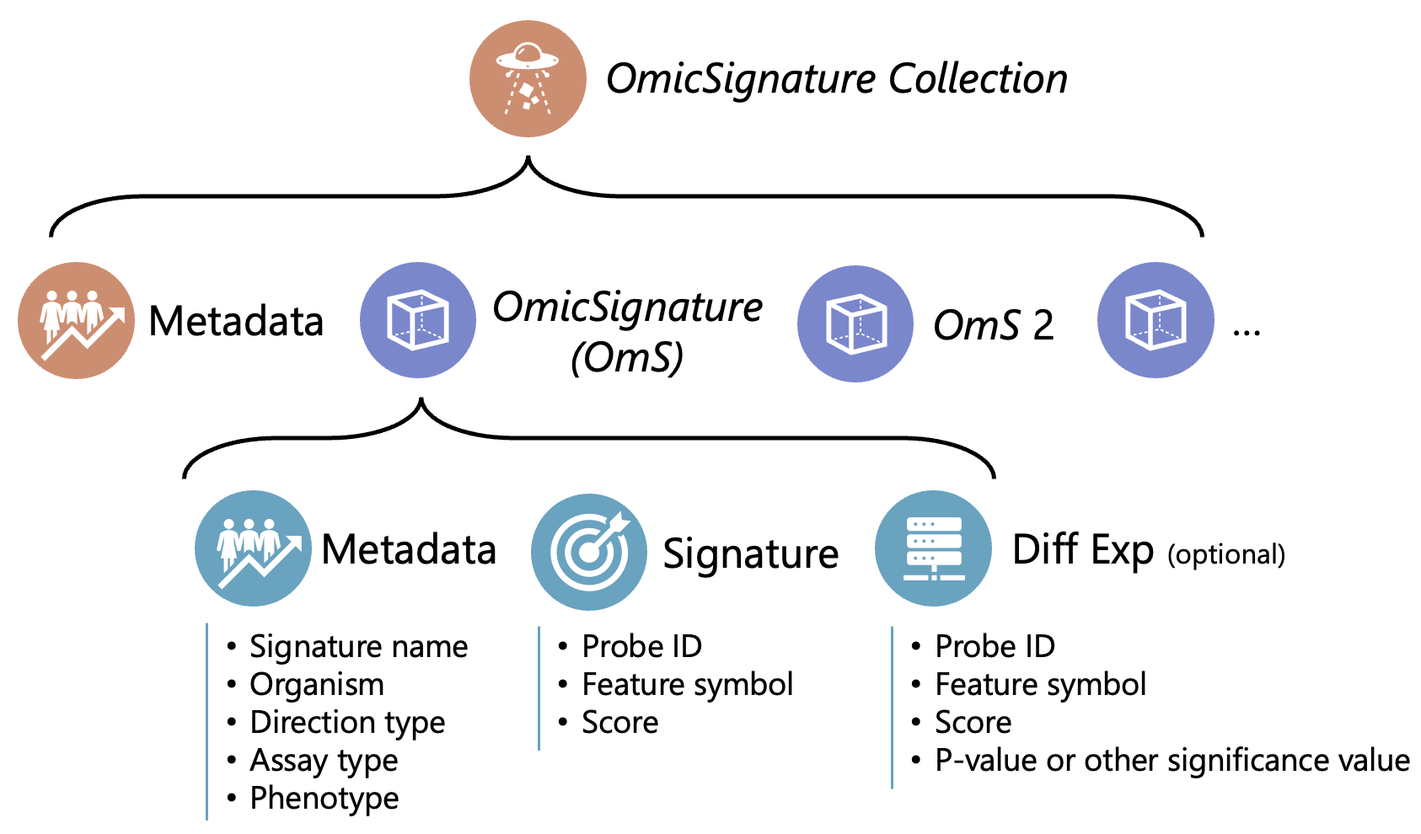
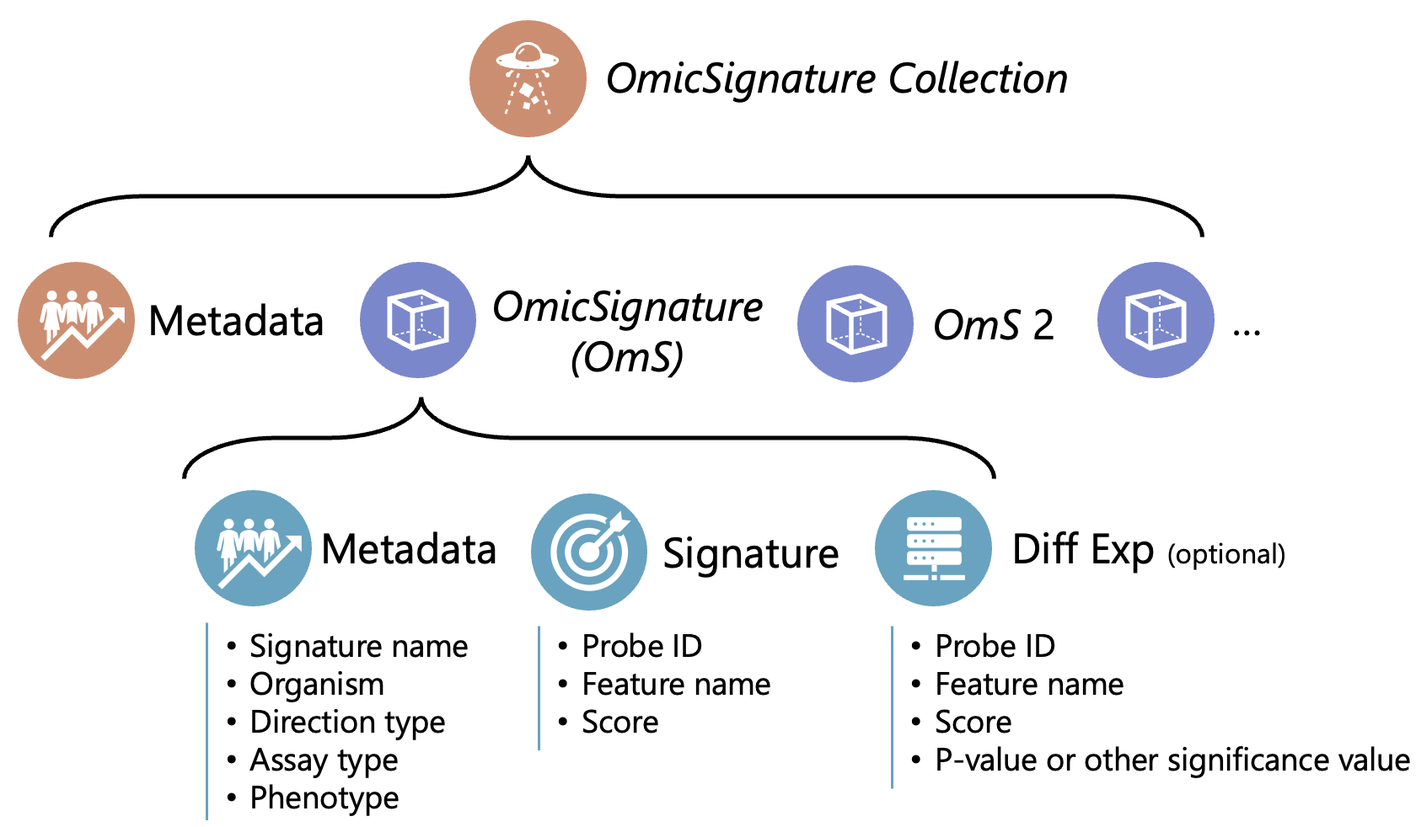
Deploying to gh-pages from @ montilab/OmicSignature@e3b354db4efc41832d84527b8e12ee6c4c1e382d 🚀

diff --git a/articles/CreateOmS.html b/articles/CreateOmS.html
@@ -120,7 +120,7 @@ Recommended optional fields, if applicable:<br>
 <li><p><strong>signature</strong>, a data frame.<br>
 Required columns:<br>
 “<strong>probe_id</strong>” (unique identifier for each feature)<br>
-“<strong>feature_symbol</strong>” (e.g. ENSEMBL ID, Uniprot ID)<br>
+“<strong>feature_name</strong>” (e.g. ENSEMBL ID, Uniprot ID)<br>
 Required for bi-directional and categorical signatures:
 “<strong>direction</strong>”<br>
 Recommended optional column, if applicable: “score”<br></p></li>
@@ -128,7 +128,7 @@ Recommended optional column, if applicable: “score”<br></p></li>
 expression analysis results.<br>
 Required columns:<br>
 “<strong>probe_id</strong>” (unique identifier for each feature)<br>
-“<strong>feature_symbol</strong>” (e.g. ENSEMBL ID, Uniprot ID)<br>
+“<strong>feature_name</strong>” (e.g. ENSEMBL ID, Uniprot ID)<br>
 Require at least one of the following: “<strong>p_value</strong>”,
 “<strong>q_value</strong>”, or “<strong>adj_p</strong>”.<br>
 Recommended optional column, if applicable: “score”, “gene_symbol”,
@@ -265,18 +265,18 @@ ANOVA.<br></p></li>
 downstream signature extraction.<br></p>
 <p><code>difexp</code> is a dataframe with the following
 <strong>required</strong> columns:<br>
-“<strong>probe_id</strong>”, “<strong>feature_symbol</strong>”, along
-with at least one of the following: “<strong>p_value</strong>”,
+“<strong>probe_id</strong>”, “<strong>feature_name</strong>”, along with
+at least one of the following: “<strong>p_value</strong>”,
 “<strong>q_value</strong>”, or “<strong>adj_p</strong>”.<br></p>
 <p>“<strong>probe_id</strong>” is a unique identifier for each feature.
 If not provided, it will be automatically generated. Common examples
 include unique numbers and probe IDs.<br>
-“<strong>feature_symbol</strong>” is a name that identifies each
-feature, examples include ENSEMBL IDs, UniProt IDs, and Refmet IDs. To
-better identify the features, it is recommended to add an additional
-annotation column(s), e.g., “hgnc_symbol”. For metabolite features, it
-is recommended to include multiple annotation columns is available,
-e.g., HMDB ID and InChI key.<br>
+“<strong>feature_name</strong>” is a name that identifies each feature,
+examples include ENSEMBL IDs, UniProt IDs, and Refmet IDs. To better
+identify the features, it is recommended to add an additional annotation
+column(s), e.g., “hgnc_symbol”. For metabolite features, it is
+recommended to include multiple annotation columns is available, e.g.,
+HMDB ID and InChI key.<br>
 “<strong>p_value</strong>”, “<strong>q_value</strong>”, or
 “<strong>adj_p</strong>” refers to the p- or q-value representing the
 significance of each feature.<br>
@@ -291,7 +291,7 @@ analysis using the <code>limma</code> package.</p>
 <span><span class="co"># )</span></span>
 <span><span class="va">difexp</span> <span class="op">&lt;-</span> <span class="fu"><a href="https://rdrr.io/r/base/readRDS.html" class="external-link">readRDS</a></span><span class="op">(</span><span class="fu"><a href="https://rdrr.io/r/base/file.path.html" class="external-link">file.path</a></span><span class="op">(</span><span class="fu"><a href="https://rdrr.io/r/base/system.file.html" class="external-link">system.file</a></span><span class="op">(</span><span class="st">"extdata"</span>, package <span class="op">=</span> <span class="st">"OmicSignature"</span><span class="op">)</span>, <span class="st">"difmatrix_Myc_mice_liver_24m.rds"</span><span class="op">)</span><span class="op">)</span></span>
 <span><span class="fu"><a href="https://rdrr.io/r/utils/head.html" class="external-link">head</a></span><span class="op">(</span><span class="va">difexp</span><span class="op">)</span></span>
-<span><span class="co">#&gt;   Probe.ID  logFC AveExpr      t P.Value adj.P.Val      b     feature_symbol</span></span>
+<span><span class="co">#&gt;   Probe.ID  logFC AveExpr      t P.Value adj.P.Val      b            ensembl</span></span>
 <span><span class="co">#&gt; 1 10345228 -0.167   7.106 -1.470   0.186     0.560 -5.866 ENSMUSG00000103746</span></span>
 <span><span class="co">#&gt; 2 10354534  0.041   4.351  0.520   0.620     0.870 -6.780 ENSMUSG00000060715</span></span>
 <span><span class="co">#&gt; 3 10354529 -0.175   4.955 -0.941   0.379     0.731 -6.458 ENSMUSG00000043629</span></span>
@@ -305,17 +305,14 @@ analysis using the <code>limma</code> package.</p>
 <span><span class="co">#&gt; 4 1700066M21Rik</span></span>
 <span><span class="co">#&gt; 5 1700101I19Rik</span></span>
 <span><span class="co">#&gt; 6 2810025M15Rik</span></span></code></pre></div>
-<p>We can manually modify the column names to match the requirements.
-Alternatively, we can use the built-in function
-<code><a href="../reference/replaceDifexpCol.html">replaceDifexpCol()</a></code> designed to replace some frequently used
-alternative column names.</p>
+<p>Manually change the column names to match the requirement. The
+built-in function <code><a href="../reference/replaceDifexpCol.html">replaceDifexpCol()</a></code> designed to replace
+some frequently used alternative column names.<br></p>
 <div class="sourceCode" id="cb6"><pre class="downlit sourceCode r">
-<code class="sourceCode R"><span><span class="fu"><a href="https://rdrr.io/r/base/colnames.html" class="external-link">colnames</a></span><span class="op">(</span><span class="va">difexp</span><span class="op">)</span> <span class="op">&lt;-</span> <span class="fu"><a href="../reference/replaceDifexpCol.html">replaceDifexpCol</a></span><span class="op">(</span><span class="fu"><a href="https://rdrr.io/r/base/colnames.html" class="external-link">colnames</a></span><span class="op">(</span><span class="va">difexp</span><span class="op">)</span><span class="op">)</span></span>
-<span><span class="co">#&gt; Warning in replaceDifexpCol(colnames(difexp)): Required column for</span></span>
-<span><span class="co">#&gt; OmicSignature object difexp: id, symbol, is not found in your input. This may</span></span>
-<span><span class="co">#&gt; cause problem when creating your OmicSignature object.</span></span>
+<code class="sourceCode R"><span><span class="va">difexp</span> <span class="op">&lt;-</span> <span class="va">difexp</span> <span class="op"><a href="https://magrittr.tidyverse.org/reference/pipe.html" class="external-link">%&gt;%</a></span> <span class="fu"><a href="https://dplyr.tidyverse.org/reference/rename.html" class="external-link">rename</a></span><span class="op">(</span>feature_name <span class="op">=</span> <span class="va">ensembl</span><span class="op">)</span></span>
+<span><span class="fu"><a href="https://rdrr.io/r/base/colnames.html" class="external-link">colnames</a></span><span class="op">(</span><span class="va">difexp</span><span class="op">)</span> <span class="op">&lt;-</span> <span class="fu"><a href="../reference/replaceDifexpCol.html">replaceDifexpCol</a></span><span class="op">(</span><span class="fu"><a href="https://rdrr.io/r/base/colnames.html" class="external-link">colnames</a></span><span class="op">(</span><span class="va">difexp</span><span class="op">)</span><span class="op">)</span></span>
 <span><span class="fu"><a href="https://rdrr.io/r/utils/head.html" class="external-link">head</a></span><span class="op">(</span><span class="va">difexp</span><span class="op">)</span></span>
-<span><span class="co">#&gt;   probe_id  logfc  mean  score p_value adj_p      b     feature_symbol</span></span>
+<span><span class="co">#&gt;   probe_id  logfc  mean  score p_value adj_p      b       feature_name</span></span>
 <span><span class="co">#&gt; 1 10345228 -0.167 7.106 -1.470   0.186 0.560 -5.866 ENSMUSG00000103746</span></span>
 <span><span class="co">#&gt; 2 10354534  0.041 4.351  0.520   0.620 0.870 -6.780 ENSMUSG00000060715</span></span>
 <span><span class="co">#&gt; 3 10354529 -0.175 4.955 -0.941   0.379 0.731 -6.458 ENSMUSG00000043629</span></span>
@@ -334,8 +331,8 @@ alternative column names.</p>
 <h3 id="signature">2.3. Signature<a class="anchor" aria-label="anchor" href="#signature"></a>
 </h3>
 <p><strong>signature</strong> is a dataframe with column
-<strong>“probe_id”</strong> and <strong>“feature_symbol”</strong>. If
-the signature is “bi-directional” or “categorical” (specified in
+<strong>“probe_id”</strong> and <strong>“feature_name”</strong>. If the
+signature is “bi-directional” or “categorical” (specified in
 <code>direction_type</code> in <code>metadata</code>), then column
 <strong>“direction”</strong> is also required.<br>
 An optional column “score” is recommended when applicable.<br></p>
@@ -346,10 +343,10 @@ specified in the metadata.<br></p>
 <div class="sourceCode" id="cb7"><pre class="downlit sourceCode r">
 <code class="sourceCode R"><span><span class="va">signature</span> <span class="op">&lt;-</span> <span class="va">difexp</span> <span class="op"><a href="https://magrittr.tidyverse.org/reference/pipe.html" class="external-link">%&gt;%</a></span></span>
 <span>  <span class="fu">dplyr</span><span class="fu">::</span><span class="fu"><a href="https://dplyr.tidyverse.org/reference/filter.html" class="external-link">filter</a></span><span class="op">(</span><span class="fu"><a href="https://rdrr.io/r/base/MathFun.html" class="external-link">abs</a></span><span class="op">(</span><span class="va">score</span><span class="op">)</span> <span class="op">&gt;</span> <span class="va">metadata</span><span class="op">$</span><span class="va">score_cutoff</span> <span class="op">&amp;</span> <span class="va">adj_p</span> <span class="op">&lt;</span> <span class="va">metadata</span><span class="op">$</span><span class="va">adj_p_cutoff</span><span class="op">)</span> <span class="op"><a href="https://magrittr.tidyverse.org/reference/pipe.html" class="external-link">%&gt;%</a></span></span>
-<span>  <span class="fu">dplyr</span><span class="fu">::</span><span class="fu"><a href="https://dplyr.tidyverse.org/reference/select.html" class="external-link">select</a></span><span class="op">(</span><span class="va">probe_id</span>, <span class="va">feature_symbol</span>, <span class="va">score</span><span class="op">)</span> <span class="op"><a href="https://magrittr.tidyverse.org/reference/pipe.html" class="external-link">%&gt;%</a></span></span>
+<span>  <span class="fu">dplyr</span><span class="fu">::</span><span class="fu"><a href="https://dplyr.tidyverse.org/reference/select.html" class="external-link">select</a></span><span class="op">(</span><span class="va">probe_id</span>, <span class="va">feature_name</span>, <span class="va">score</span><span class="op">)</span> <span class="op"><a href="https://magrittr.tidyverse.org/reference/pipe.html" class="external-link">%&gt;%</a></span></span>
 <span>  <span class="fu">dplyr</span><span class="fu">::</span><span class="fu"><a href="https://dplyr.tidyverse.org/reference/mutate.html" class="external-link">mutate</a></span><span class="op">(</span>direction <span class="op">=</span> <span class="fu"><a href="https://rdrr.io/r/base/ifelse.html" class="external-link">ifelse</a></span><span class="op">(</span><span class="va">score</span> <span class="op">&gt;</span> <span class="fl">0</span>, <span class="st">"+"</span>, <span class="st">"-"</span><span class="op">)</span><span class="op">)</span></span>
 <span><span class="fu"><a href="https://rdrr.io/r/utils/head.html" class="external-link">head</a></span><span class="op">(</span><span class="va">signature</span><span class="op">)</span></span>
-<span><span class="co">#&gt;   probe_id     feature_symbol   score direction</span></span>
+<span><span class="co">#&gt;   probe_id       feature_name   score direction</span></span>
 <span><span class="co">#&gt; 1 10346882 ENSMUSG00000025964  -6.990         -</span></span>
 <span><span class="co">#&gt; 2 10353878 ENSMUSG00000067653  -7.867         -</span></span>
 <span><span class="co">#&gt; 3 10349648 ENSMUSG00000004552  14.762         +</span></span>
@@ -357,11 +354,11 @@ specified in the metadata.<br></p>
 <span><span class="co">#&gt; 5 10353192 ENSMUSG00000025932  10.487         +</span></span>
 <span><span class="co">#&gt; 6 10345762 ENSMUSG00000026072 -13.543         -</span></span></code></pre></div>
 <p>Function <code><a href="../reference/standardizeSigDF.html">standardizeSigDF()</a></code> can help remove duplicated
-and empty symbols.</p>
+and empty names.</p>
 <div class="sourceCode" id="cb8"><pre class="downlit sourceCode r">
 <code class="sourceCode R"><span><span class="va">signature</span> <span class="op">&lt;-</span> <span class="fu"><a href="../reference/standardizeSigDF.html">standardizeSigDF</a></span><span class="op">(</span><span class="va">signature</span><span class="op">)</span></span>
 <span><span class="fu"><a href="https://rdrr.io/r/utils/head.html" class="external-link">head</a></span><span class="op">(</span><span class="va">signature</span><span class="op">)</span></span>
-<span><span class="co">#&gt;   probe_id     feature_symbol   score direction</span></span>
+<span><span class="co">#&gt;   probe_id       feature_name   score direction</span></span>
 <span><span class="co">#&gt; 1 10349648 ENSMUSG00000004552  14.762         +</span></span>
 <span><span class="co">#&gt; 2 10345762 ENSMUSG00000026072 -13.543         -</span></span>
 <span><span class="co">#&gt; 3 10353192 ENSMUSG00000025932  10.487         +</span></span>
@@ -370,18 +367,18 @@ and empty symbols.</p>
 <span><span class="co">#&gt; 6 10353878 ENSMUSG00000067653  -7.867         -</span></span></code></pre></div>
 <p>Option 2: Manually create signature dataframe.<br>
 For uni-directional signature:<br></p>
-<pre><code><span><span class="va">signature</span> <span class="op">&lt;-</span> <span class="fu"><a href="https://rdrr.io/r/base/data.frame.html" class="external-link">data.frame</a></span><span class="op">(</span><span class="st">"probe_id"</span> <span class="op">=</span> <span class="fu"><a href="https://rdrr.io/r/base/c.html" class="external-link">c</a></span><span class="op">(</span><span class="fl">1</span>, <span class="fl">2</span>, <span class="fl">3</span><span class="op">)</span>, <span class="st">"feature_symbol"</span> <span class="op">=</span> <span class="fu"><a href="https://rdrr.io/r/base/c.html" class="external-link">c</a></span><span class="op">(</span><span class="st">"gene1"</span>, <span class="st">"gene2"</span>, <span class="st">"gene3"</span><span class="op">)</span><span class="op">)</span></span></code></pre>
+<pre><code><span><span class="va">signature</span> <span class="op">&lt;-</span> <span class="fu"><a href="https://rdrr.io/r/base/data.frame.html" class="external-link">data.frame</a></span><span class="op">(</span><span class="st">"probe_id"</span> <span class="op">=</span> <span class="fu"><a href="https://rdrr.io/r/base/c.html" class="external-link">c</a></span><span class="op">(</span><span class="fl">1</span>, <span class="fl">2</span>, <span class="fl">3</span><span class="op">)</span>, <span class="st">"feature_name"</span> <span class="op">=</span> <span class="fu"><a href="https://rdrr.io/r/base/c.html" class="external-link">c</a></span><span class="op">(</span><span class="st">"gene1"</span>, <span class="st">"gene2"</span>, <span class="st">"gene3"</span><span class="op">)</span><span class="op">)</span></span></code></pre>
 <p>For bi-directional signature:<br></p>
 <pre><code><span><span class="va">signature</span> <span class="op">&lt;-</span> <span class="fu"><a href="https://rdrr.io/r/base/data.frame.html" class="external-link">data.frame</a></span><span class="op">(</span></span>
 <span>  <span class="st">"probe_id"</span> <span class="op">=</span> <span class="fu"><a href="https://rdrr.io/r/base/c.html" class="external-link">c</a></span><span class="op">(</span><span class="fl">1</span>, <span class="fl">2</span>, <span class="fl">3</span><span class="op">)</span>,</span>
-<span>  <span class="st">"feature_symbol"</span> <span class="op">=</span> <span class="fu"><a href="https://rdrr.io/r/base/c.html" class="external-link">c</a></span><span class="op">(</span><span class="st">"gene1"</span>, <span class="st">"gene2"</span>, <span class="st">"gene3"</span><span class="op">)</span>,</span>
+<span>  <span class="st">"feature_name"</span> <span class="op">=</span> <span class="fu"><a href="https://rdrr.io/r/base/c.html" class="external-link">c</a></span><span class="op">(</span><span class="st">"gene1"</span>, <span class="st">"gene2"</span>, <span class="st">"gene3"</span><span class="op">)</span>,</span>
 <span>  <span class="st">"score"</span> <span class="op">=</span> <span class="fu"><a href="https://rdrr.io/r/base/c.html" class="external-link">c</a></span><span class="op">(</span><span class="fl">0.45</span>, <span class="op">-</span><span class="fl">3.21</span>, <span class="fl">2.44</span><span class="op">)</span>,</span>
 <span>  <span class="st">"direction"</span> <span class="op">=</span> <span class="fu"><a href="https://rdrr.io/r/base/c.html" class="external-link">c</a></span><span class="op">(</span><span class="st">"+"</span>, <span class="st">"-"</span>, <span class="st">"+"</span><span class="op">)</span></span>
 <span><span class="op">)</span></span></code></pre>
 <p>For categorical signature:<br></p>
 <pre><code><span><span class="va">signature</span> <span class="op">&lt;-</span> <span class="fu"><a href="https://rdrr.io/r/base/data.frame.html" class="external-link">data.frame</a></span><span class="op">(</span></span>
 <span>  <span class="st">"probe_id"</span> <span class="op">=</span> <span class="fu"><a href="https://rdrr.io/r/base/c.html" class="external-link">c</a></span><span class="op">(</span><span class="fl">1</span>, <span class="fl">2</span>, <span class="fl">3</span>, <span class="fl">4</span><span class="op">)</span>,</span>
-<span>  <span class="st">"feature_symbol"</span> <span class="op">=</span> <span class="fu"><a href="https://rdrr.io/r/base/c.html" class="external-link">c</a></span><span class="op">(</span><span class="st">"gene1"</span>, <span class="st">"gene2"</span>, <span class="st">"gene3"</span>, <span class="st">"gene4"</span><span class="op">)</span>,</span>
+<span>  <span class="st">"feature_name"</span> <span class="op">=</span> <span class="fu"><a href="https://rdrr.io/r/base/c.html" class="external-link">c</a></span><span class="op">(</span><span class="st">"gene1"</span>, <span class="st">"gene2"</span>, <span class="st">"gene3"</span>, <span class="st">"gene4"</span><span class="op">)</span>,</span>
 <span>  <span class="st">"score"</span> <span class="op">=</span> <span class="fu"><a href="https://rdrr.io/r/base/c.html" class="external-link">c</a></span><span class="op">(</span><span class="fl">0.45</span>, <span class="op">-</span><span class="fl">3.21</span>, <span class="fl">2.44</span>, <span class="op">-</span><span class="fl">2.45</span><span class="op">)</span>,</span>
 <span>  <span class="st">"direction"</span> <span class="op">=</span> <span class="fu"><a href="https://rdrr.io/r/base/c.html" class="external-link">c</a></span><span class="op">(</span><span class="st">"group1"</span>, <span class="st">"group1"</span>, <span class="st">"group2"</span>, <span class="st">"group3"</span><span class="op">)</span></span>
 <span><span class="op">)</span></span></code></pre>
@@ -443,7 +440,7 @@ messages.<br></p>
 object)</p>
 <div class="sourceCode" id="cb15"><pre class="downlit sourceCode r">
 <code class="sourceCode R"><span><span class="va">OmicObj</span><span class="op">$</span><span class="fu">extractSignature</span><span class="op">(</span><span class="st">"abs(score) &gt; 10; adj_p &lt; 0.01"</span><span class="op">)</span></span>
-<span><span class="co">#&gt;   probe_id     feature_symbol   score direction</span></span>
+<span><span class="co">#&gt;   probe_id       feature_name   score direction</span></span>
 <span><span class="co">#&gt; 1 10349648 ENSMUSG00000004552  14.762         +</span></span>
 <span><span class="co">#&gt; 2 10345762 ENSMUSG00000026072 -13.543         -</span></span>
 <span><span class="co">#&gt; 3 10353192 ENSMUSG00000025932  10.487         +</span></span>

diff --git a/articles/FunOmSC.html b/articles/FunOmSC.html
@@ -174,45 +174,45 @@ this Collection. The features are ranked by absolute score, if
 applicable.</p>
 <div class="sourceCode" id="cb4"><pre class="downlit sourceCode r">
 <code class="sourceCode R"><span><span class="va">OmicCol</span><span class="op">$</span><span class="fu">extractSignature</span><span class="op">(</span><span class="st">"abs(score) &gt; 4.5 &amp; p_value &lt; 0.01"</span><span class="op">)</span></span>
-<span><span class="co">#&gt;               sig_name probe_id feature_symbol score direction</span></span>
-<span><span class="co">#&gt; 1  Experiment in brain       14         gene14 -4.99         -</span></span>
-<span><span class="co">#&gt; 2  Experiment in heart       28         gene28  4.99         +</span></span>
-<span><span class="co">#&gt; 3  Experiment in heart       32         gene32 -4.90         -</span></span>
-<span><span class="co">#&gt; 4  Experiment in brain        9          gene9 -4.86         -</span></span>
-<span><span class="co">#&gt; 5  Experiment in brain       15         gene15 -4.77         -</span></span>
-<span><span class="co">#&gt; 6  Experiment in liver       46         gene46 -4.71         -</span></span>
-<span><span class="co">#&gt; 7  Experiment in heart       25         gene25  4.71         +</span></span>
-<span><span class="co">#&gt; 8  Experiment in heart       49         gene49 -4.70         -</span></span>
-<span><span class="co">#&gt; 9  Experiment in liver       13         gene13  4.68         +</span></span>
-<span><span class="co">#&gt; 10 Experiment in liver       48         gene48 -4.67         -</span></span>
-<span><span class="co">#&gt; 11 Experiment in brain       25         gene25 -4.62         -</span></span>
-<span><span class="co">#&gt; 12 Experiment in brain       16         gene16 -4.59         -</span></span>
-<span><span class="co">#&gt; 13 Experiment in heart        6          gene6 -4.54         -</span></span></code></pre></div>
+<span><span class="co">#&gt;               sig_name probe_id feature_name score direction</span></span>
+<span><span class="co">#&gt; 1  Experiment in brain       14       gene14 -4.99         -</span></span>
+<span><span class="co">#&gt; 2  Experiment in heart       28       gene28  4.99         +</span></span>
+<span><span class="co">#&gt; 3  Experiment in heart       32       gene32 -4.90         -</span></span>
+<span><span class="co">#&gt; 4  Experiment in brain        9        gene9 -4.86         -</span></span>
+<span><span class="co">#&gt; 5  Experiment in brain       15       gene15 -4.77         -</span></span>
+<span><span class="co">#&gt; 6  Experiment in liver       46       gene46 -4.71         -</span></span>
+<span><span class="co">#&gt; 7  Experiment in heart       25       gene25  4.71         +</span></span>
+<span><span class="co">#&gt; 8  Experiment in heart       49       gene49 -4.70         -</span></span>
+<span><span class="co">#&gt; 9  Experiment in liver       13       gene13  4.68         +</span></span>
+<span><span class="co">#&gt; 10 Experiment in liver       48       gene48 -4.67         -</span></span>
+<span><span class="co">#&gt; 11 Experiment in brain       25       gene25 -4.62         -</span></span>
+<span><span class="co">#&gt; 12 Experiment in brain       16       gene16 -4.59         -</span></span>
+<span><span class="co">#&gt; 13 Experiment in heart        6        gene6 -4.54         -</span></span></code></pre></div>
 <p>If <code>bind</code> is set to be <code>FALSE</code>, the output of
 each <code>OmicSignature</code> objects are provided as a list.<br></p>
 <div class="sourceCode" id="cb5"><pre class="downlit sourceCode r">
 <code class="sourceCode R"><span><span class="va">OmicCol</span><span class="op">$</span><span class="fu">extractSignature</span><span class="op">(</span><span class="st">"abs(score) &gt; 4.5 &amp; p_value &lt; 0.01"</span>, bind <span class="op">=</span> <span class="cn">FALSE</span><span class="op">)</span></span>
 <span><span class="co">#&gt; $`Experiment in liver`</span></span>
-<span><span class="co">#&gt;   probe_id feature_symbol score direction</span></span>
-<span><span class="co">#&gt; 1       46         gene46 -4.71         -</span></span>
-<span><span class="co">#&gt; 2       13         gene13  4.68         +</span></span>
-<span><span class="co">#&gt; 3       48         gene48 -4.67         -</span></span>
+<span><span class="co">#&gt;   probe_id feature_name score direction</span></span>
+<span><span class="co">#&gt; 1       46       gene46 -4.71         -</span></span>
+<span><span class="co">#&gt; 2       13       gene13  4.68         +</span></span>
+<span><span class="co">#&gt; 3       48       gene48 -4.67         -</span></span>
 <span><span class="co">#&gt; </span></span>
 <span><span class="co">#&gt; $`Experiment in brain`</span></span>
-<span><span class="co">#&gt;   probe_id feature_symbol score direction</span></span>
-<span><span class="co">#&gt; 1       14         gene14 -4.99         -</span></span>
-<span><span class="co">#&gt; 2        9          gene9 -4.86         -</span></span>
-<span><span class="co">#&gt; 3       15         gene15 -4.77         -</span></span>
-<span><span class="co">#&gt; 4       25         gene25 -4.62         -</span></span>
-<span><span class="co">#&gt; 5       16         gene16 -4.59         -</span></span>
+<span><span class="co">#&gt;   probe_id feature_name score direction</span></span>
+<span><span class="co">#&gt; 1       14       gene14 -4.99         -</span></span>
+<span><span class="co">#&gt; 2        9        gene9 -4.86         -</span></span>
+<span><span class="co">#&gt; 3       15       gene15 -4.77         -</span></span>
+<span><span class="co">#&gt; 4       25       gene25 -4.62         -</span></span>
+<span><span class="co">#&gt; 5       16       gene16 -4.59         -</span></span>
 <span><span class="co">#&gt; </span></span>
 <span><span class="co">#&gt; $`Experiment in heart`</span></span>
-<span><span class="co">#&gt;   probe_id feature_symbol score direction</span></span>
-<span><span class="co">#&gt; 1       28         gene28  4.99         +</span></span>
-<span><span class="co">#&gt; 2       32         gene32 -4.90         -</span></span>
-<span><span class="co">#&gt; 3       25         gene25  4.71         +</span></span>
-<span><span class="co">#&gt; 4       49         gene49 -4.70         -</span></span>
-<span><span class="co">#&gt; 5        6          gene6 -4.54         -</span></span></code></pre></div>
+<span><span class="co">#&gt;   probe_id feature_name score direction</span></span>
+<span><span class="co">#&gt; 1       28       gene28  4.99         +</span></span>
+<span><span class="co">#&gt; 2       32       gene32 -4.90         -</span></span>
+<span><span class="co">#&gt; 3       25       gene25  4.71         +</span></span>
+<span><span class="co">#&gt; 4       49       gene49 -4.70         -</span></span>
+<span><span class="co">#&gt; 5        6        gene6 -4.54         -</span></span></code></pre></div>
 </div>
 <div class="section level2">
 <h2 id="section"></h2>

diff --git a/reference/signatureVecToDF.html b/reference/signatureVecToDF.html
@@ -84,7 +84,7 @@ updated 10/2024</p>
 
 
 <dl><dt id="arg-input">input<a class="anchor" aria-label="anchor" href="#arg-input"></a></dt>
-<dd><p>a character vector of the symbol of the signature, or a numeric vector which names are signature symbols and values are scores.</p></dd>
+<dd><p>a character vector of the significant feature names, or a numeric vector which names are feature names and values are scores.</p></dd>
 
 
 <dt id="arg-bi-directional">bi_directional<a class="anchor" aria-label="anchor" href="#arg-bi-directional"></a></dt>
@@ -93,25 +93,25 @@ updated 10/2024</p>
 </dl></div>
     <div id="value">
     <h2>Value</h2>
-    <p>signature dataframe with columns "feature_symbol", along with "score" and "direction" if applicable</p>
+    <p>signature dataframe with columns "feature_name", along with "score" and "direction" if applicable</p>
     </div>
 
     <div id="ref-examples">
     <h2>Examples</h2>
     <div class="sourceCode"><pre class="sourceCode r"><code><span class="r-in"><span><span class="va">signatures</span> <span class="op">&lt;-</span> <span class="fu"><a href="https://rdrr.io/r/base/c.html" class="external-link">c</a></span><span class="op">(</span><span class="st">"gene1"</span>, <span class="st">"gene2"</span>, <span class="st">"gene3"</span><span class="op">)</span></span></span>
 <span class="r-in"><span><span class="fu">signatureVecToDF</span><span class="op">(</span><span class="va">signatures</span><span class="op">)</span></span></span>
-<span class="r-out co"><span class="r-pr">#&gt;</span>   probe_id feature_symbol</span>
-<span class="r-out co"><span class="r-pr">#&gt;</span> 1        1          gene1</span>
-<span class="r-out co"><span class="r-pr">#&gt;</span> 2        2          gene2</span>
-<span class="r-out co"><span class="r-pr">#&gt;</span> 3        3          gene3</span>
+<span class="r-out co"><span class="r-pr">#&gt;</span>   probe_id feature_name</span>
+<span class="r-out co"><span class="r-pr">#&gt;</span> 1        1        gene1</span>
+<span class="r-out co"><span class="r-pr">#&gt;</span> 2        2        gene2</span>
+<span class="r-out co"><span class="r-pr">#&gt;</span> 3        3        gene3</span>
 <span class="r-in"><span></span></span>
 <span class="r-in"><span><span class="va">signatures</span> <span class="op">&lt;-</span> <span class="fu"><a href="https://rdrr.io/r/base/c.html" class="external-link">c</a></span><span class="op">(</span><span class="fl">0.45</span>, <span class="op">-</span><span class="fl">3.21</span>, <span class="fl">2.44</span><span class="op">)</span></span></span>
 <span class="r-in"><span><span class="fu"><a href="https://rdrr.io/r/base/names.html" class="external-link">names</a></span><span class="op">(</span><span class="va">signatures</span><span class="op">)</span> <span class="op">&lt;-</span> <span class="fu"><a href="https://rdrr.io/r/base/c.html" class="external-link">c</a></span><span class="op">(</span><span class="st">"gene1"</span>, <span class="st">"gene2"</span>, <span class="st">"gene3"</span><span class="op">)</span></span></span>
 <span class="r-in"><span><span class="fu">signatureVecToDF</span><span class="op">(</span><span class="va">signatures</span>, bi_directional <span class="op">=</span> <span class="cn">TRUE</span><span class="op">)</span></span></span>
-<span class="r-out co"><span class="r-pr">#&gt;</span>   probe_id feature_symbol score direction</span>
-<span class="r-out co"><span class="r-pr">#&gt;</span> 1        1          gene1  0.45         +</span>
-<span class="r-out co"><span class="r-pr">#&gt;</span> 2        2          gene2 -3.21         -</span>
-<span class="r-out co"><span class="r-pr">#&gt;</span> 3        3          gene3  2.44         +</span>
+<span class="r-out co"><span class="r-pr">#&gt;</span>   probe_id feature_name score direction</span>
+<span class="r-out co"><span class="r-pr">#&gt;</span> 1        1        gene1  0.45         +</span>
+<span class="r-out co"><span class="r-pr">#&gt;</span> 2        2        gene2 -3.21         -</span>
+<span class="r-out co"><span class="r-pr">#&gt;</span> 3        3        gene3  2.44         +</span>
 </code></pre></div>
     </div>
   </div>

diff --git a/articles/FunOmS.html b/articles/FunOmS.html
@@ -158,7 +158,7 @@ For example, extract all features with a t-score with absolute value
 higher than 5 and adj_p smaller than 0.01:</p>
 <div class="sourceCode" id="cb5"><pre class="downlit sourceCode r">
 <code class="sourceCode R"><span><span class="va">OmicObj</span><span class="op">$</span><span class="fu">extractSignature</span><span class="op">(</span><span class="st">"abs(score) &gt; 5; adj_p &lt; 0.01"</span><span class="op">)</span></span>
-<span><span class="co">#&gt;   probe_id     feature_symbol   score direction</span></span>
+<span><span class="co">#&gt;   probe_id       feature_name   score direction</span></span>
 <span><span class="co">#&gt; 1 10349648 ENSMUSG00000004552  14.762         +</span></span>
 <span><span class="co">#&gt; 2 10345762 ENSMUSG00000026072 -13.543         -</span></span>
 <span><span class="co">#&gt; 3 10353192 ENSMUSG00000025932  10.487         +</span></span>

diff --git a/reference/OmicSignature.html b/reference/OmicSignature.html
@@ -83,7 +83,7 @@ updated 10/2024</p>
 
 
 <dt><code>signature</code></dt>
-<dd><p>a dataframe contains probe_id, feature_symbol, score (optional) and direction (optional)</p></dd>
+<dd><p>a dataframe contains probe_id, feature_name, score (optional) and direction (optional)</p></dd>
 
 
 <dt><code>difexp</code></dt>
@@ -120,7 +120,7 @@ updated 10/2024</p>
 
 
 <dt><code>signature</code></dt>
-<dd><p>required. a vector, or a dataframe including columns: "probe_id", "feature_symbol" and "direction", and an optional column "score"</p></dd>
+<dd><p>required. a vector, or a dataframe including columns: "probe_id", "feature_name" and "direction", and an optional column "score"</p></dd>
 
 
 <dt><code>difexp</code></dt>

diff --git a/articles/ObjectStructure.html b/articles/ObjectStructure.html
@@ -107,7 +107,7 @@ Li</h4>
 </h2>
 <p>An <code>OmicSignature</code> object contains three parts:<br>
 - <strong>metadata</strong>, a list containing metadata fields;<br>
-- <strong>signature</strong>, a dataframe with feature symbols,
+- <strong>signature</strong>, a dataframe with feature names,
 directions, and scores if applicable;<br>
 - <strong>difexp</strong>, optional, a dataframe with the differential
 expression analysis result.</p>
